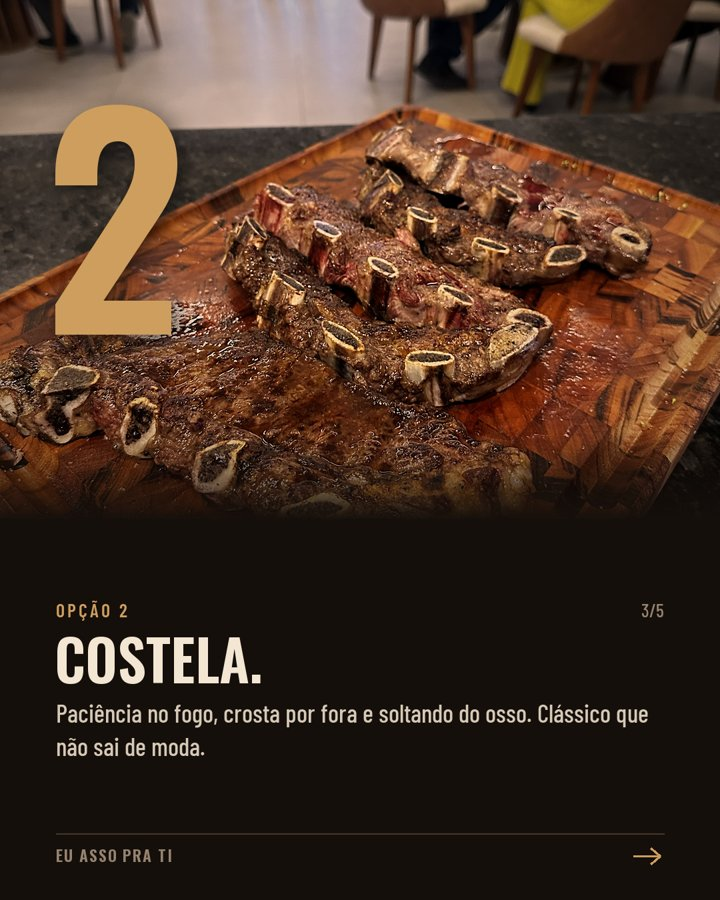
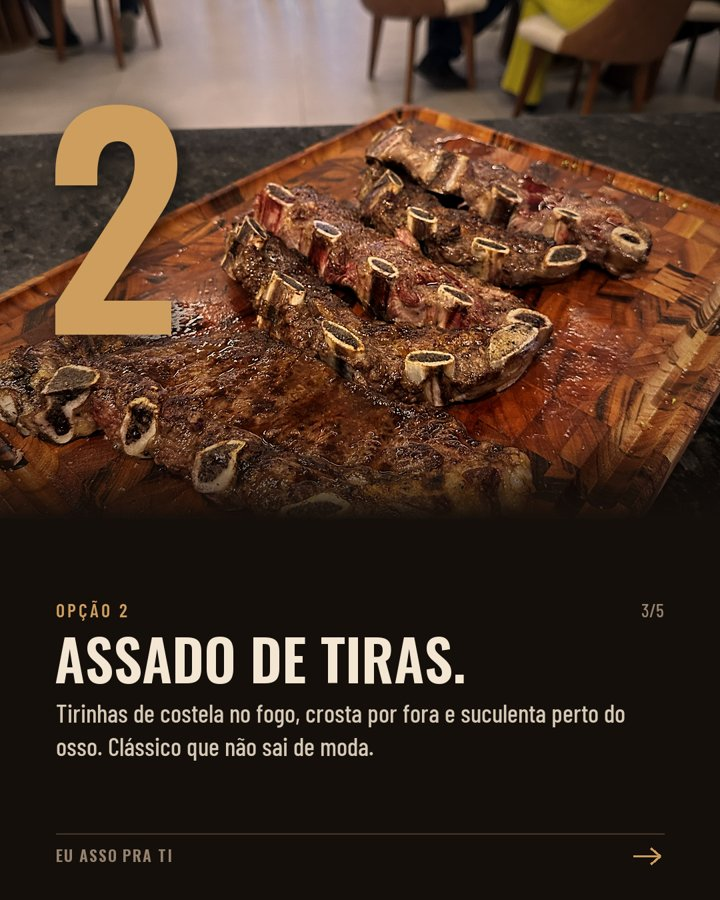
Post 15: entrecô, assado de tiras e matambrito à la pizza (pitacos do Diego)

Changed region(s): [[0.0611, 0.6844, 0.9167, 0.84]]

diff --git a/calendario/index.html b/calendario/index.html
@@ -11,7 +11,7 @@
 --display:"Oswald","Arial Narrow",sans-serif;--label:"Barlow Condensed","Arial Narrow",sans-serif;--text:"Barlow",system-ui,sans-serif;color-scheme:dark}
 *{box-sizing:border-box}
 body{margin:0;background:var(--bg);color:var(--body);font:400 1.0625rem/1.6 var(--text)}
-.hero{position:relative;min-height:min(78vh,620px);display:grid;align-items:end;background:#000 url(img/p14-01.jpg?v=1793402978) center 40%/cover}
+.hero{position:relative;min-height:min(78vh,620px);display:grid;align-items:end;background:#000 url(img/p14-01.jpg?v=1793404952) center 40%/cover}
 .hero::after{content:"";position:absolute;inset:0;background:linear-gradient(180deg,rgba(21,15,11,.2) 0%,rgba(21,15,11,.55) 45%,var(--bg) 100%)}
 .hero .in{position:relative;z-index:1;max-width:760px;margin:0 auto;width:100%;padding:0 20px 36px}
 h1,h2{font-family:var(--display);font-weight:600;text-transform:uppercase;color:var(--fg);line-height:1.05;margin:0;text-wrap:balance}
@@ -88,12 +88,12 @@ footer{font:500 .9rem var(--label);color:var(--muted);letter-spacing:.06em;borde
   <h2>Post 13: quem provou, recomenda</h2>
   <p>Prova social no dia em que os anúncios começam. Os comentários reais da galera, no visual do Instagram: a formatura, o aniversário de 1 ano do último sábado e quem provou o choripan de focaccia. Fecha contigo sorrindo e chamando pro WhatsApp.</p>
   <div class="car" aria-label="Imagens do post 13">
-    <img src="img/p13-01.jpg?v=1793402978" alt="Capa: Quem provou, recomenda" loading="lazy">
-    <img src="img/p13-02.jpg?v=1793402978" alt="Formatura" loading="lazy">
-    <img src="img/p13-03.jpg?v=1793402978" alt="Aniversário de 1 ano" loading="lazy">
-    <img src="img/p13-04.jpg?v=1793402978" alt="A queridinha" loading="lazy">
-    <img src="img/p13-05.jpg?v=1793402978" alt="Sem palavras" loading="lazy">
-    <img src="img/p13-06.jpg?v=1793402978" alt="A próxima pode ser a tua" loading="lazy">
+    <img src="img/p13-01.jpg?v=1793404952" alt="Capa: Quem provou, recomenda" loading="lazy">
+    <img src="img/p13-02.jpg?v=1793404952" alt="Formatura" loading="lazy">
+    <img src="img/p13-03.jpg?v=1793404952" alt="Aniversário de 1 ano" loading="lazy">
+    <img src="img/p13-04.jpg?v=1793404952" alt="A queridinha" loading="lazy">
+    <img src="img/p13-05.jpg?v=1793404952" alt="Sem palavras" loading="lazy">
+    <img src="img/p13-06.jpg?v=1793404952" alt="A próxima pode ser a tua" loading="lazy">
   </div>
   <p class="hint">Arrasta para o lado para ver as 6 imagens.</p>
   <details><summary>Ver a legenda</summary><div class="cap">Quem provou, recomenda 🔥
@@ -118,12 +118,12 @@ Tem festa vindo aí? Me chama no WhatsApp pelo link da bio ou no (51) 99565-7817
   <h2>Post 14: como é o dia da tua festa</h2>
   <p>O passo a passo do dia, com uma linha do tempo no topo de cada card: tu chega antes, os cortes separados e temperados, o fogo, a carne servida quentinha na mesa e o cliente só aproveitando. Responde a dúvida de quem nunca contratou: "vai dar trabalho pra mim?".</p>
   <div class="car" aria-label="Imagens do post 14">
-    <img src="img/p14-01.jpg?v=1793402978" alt="Capa: Como é o dia da tua festa" loading="lazy">
-    <img src="img/p14-02.jpg?v=1793402978" alt="Eu chego antes" loading="lazy">
-    <img src="img/p14-03.jpg?v=1793402978" alt="Separados e temperados na hora" loading="lazy">
-    <img src="img/p14-04.jpg?v=1793402978" alt="O fogo no ponto certo" loading="lazy">
-    <img src="img/p14-05.jpg?v=1793402978" alt="Servido quentinho pra galera" loading="lazy">
-    <img src="img/p14-06.jpg?v=1793402978" alt="Tu só aproveita a festa" loading="lazy">
+    <img src="img/p14-01.jpg?v=1793404952" alt="Capa: Como é o dia da tua festa" loading="lazy">
+    <img src="img/p14-02.jpg?v=1793404952" alt="Eu chego antes" loading="lazy">
+    <img src="img/p14-03.jpg?v=1793404952" alt="Separados e temperados na hora" loading="lazy">
+    <img src="img/p14-04.jpg?v=1793404952" alt="O fogo no ponto certo" loading="lazy">
+    <img src="img/p14-05.jpg?v=1793404952" alt="Servido quentinho pra galera" loading="lazy">
+    <img src="img/p14-06.jpg?v=1793404952" alt="Tu só aproveita a festa" loading="lazy">
   </div>
   <p class="hint">Arrasta para o lado para ver as 6 imagens.</p>
   <details><summary>Ver a legenda</summary><div class="cap">Como é o dia da tua festa com o Eu Asso pra Ti? 🔥
@@ -150,20 +150,20 @@ Me chama no WhatsApp pelo link da bio ou no (51) 99565-7817 e me conta como tu i
   <h2>Post 15: qual corte não pode faltar?</h2>
   <p>Enquete pra galera comentar, no mesmo formato do post do sal, que foi o que mais deu conversa até agora. Três opções com número gigante, e a galera vota comentando 1, 2 ou 3.</p>
   <div class="car" aria-label="Imagens do post 15">
-    <img src="img/p15-01.jpg?v=1793402978" alt="Capa: Qual corte não pode faltar?" loading="lazy">
-    <img src="img/p15-02.jpg?v=1793402978" alt="Ancho" loading="lazy">
-    <img src="img/p15-03.jpg?v=1793402978" alt="Costela" loading="lazy">
-    <img src="img/p15-04.jpg?v=1793402978" alt="Matambrito" loading="lazy">
-    <img src="img/p15-05.jpg?v=1793402978" alt="Comenta o número do teu time" loading="lazy">
+    <img src="img/p15-01.jpg?v=1793404952" alt="Capa: Qual corte não pode faltar?" loading="lazy">
+    <img src="img/p15-02.jpg?v=1793404952" alt="Entrecô" loading="lazy">
+    <img src="img/p15-03.jpg?v=1793404952" alt="Assado de tiras" loading="lazy">
+    <img src="img/p15-04.jpg?v=1793404952" alt="Matambrito à la pizza" loading="lazy">
+    <img src="img/p15-05.jpg?v=1793404952" alt="Comenta o número do teu time" loading="lazy">
   </div>
   <p class="hint">Arrasta para o lado para ver as 5 imagens.</p>
   <details><summary>Ver a legenda</summary><div class="cap">Qual corte não pode faltar na tua festa? 🔥
 
 Vota aqui nos comentários com o número do teu time:
 
-1⃣ Ancho, macio e bem marmorizado
-2⃣ Costela, soltando do osso
-3⃣ Matambrito, fininho e suculento, pra quem gosta de provar coisa nova
+1⃣ Entrecô, macio e bem marmorizado
+2⃣ Assado de tiras, suculento perto do osso
+3⃣ Matambrito à la pizza, fininho e suculento, pra quem gosta de provar coisa nova
 
 Ou tem outro corte que, pra ti, não pode faltar? Quero ver qual time ganha! 👇
 

diff --git a/semana/index.html b/semana/index.html
@@ -11,7 +11,7 @@
 --display:"Oswald","Arial Narrow",sans-serif;--label:"Barlow Condensed","Arial Narrow",sans-serif;--text:"Barlow",system-ui,sans-serif;color-scheme:dark}
 *{box-sizing:border-box}
 body{margin:0;background:var(--bg);color:var(--body);font:400 1.0625rem/1.6 var(--text)}
-.hero{position:relative;min-height:min(78vh,620px);display:grid;align-items:end;background:#000 url(img/p5-02.jpg?v=1793402978) center 40%/cover}
+.hero{position:relative;min-height:min(78vh,620px);display:grid;align-items:end;background:#000 url(img/p5-02.jpg?v=1793404952) center 40%/cover}
 .hero::after{content:"";position:absolute;inset:0;background:linear-gradient(180deg,rgba(21,15,11,.2) 0%,rgba(21,15,11,.55) 45%,var(--bg) 100%)}
 .hero .in{position:relative;z-index:1;max-width:760px;margin:0 auto;width:100%;padding:0 20px 36px}
 h1,h2{font-family:var(--display);font-weight:600;text-transform:uppercase;color:var(--fg);line-height:1.05;margin:0;text-wrap:balance}
@@ -81,13 +81,13 @@ footer{font:500 .9rem var(--label);color:var(--muted);letter-spacing:.06em;borde
   <h2>Post 5: gastronomia de fogo</h2>
   <p>Carrossel de 7 imagens: a carne de qualidade, cada uma no seu ponto, os legumes, o fatiado na hora, a sobremesa no fogo e o convite pra conversar.</p>
   <div class="car" aria-label="Imagens do post 5">
-    <img src="img/p5-01.jpg?v=1793402978" alt="Capa: Gastronomia de fogo" loading="lazy">
-    <img src="img/p5-02.jpg?v=1793402978" alt="Carne de qualidade" loading="lazy">
-    <img src="img/p5-03.jpg?v=1793402978" alt="Cada carne no seu ponto" loading="lazy">
-    <img src="img/p5-04.jpg?v=1793402978" alt="Os legumes também vão pro fogo" loading="lazy">
-    <img src="img/p5-05.jpg?v=1793402978" alt="Fatiado na hora" loading="lazy">
-    <img src="img/p5-06.jpg?v=1793402978" alt="E a sobremesa? No fogo, é claro" loading="lazy">
-    <img src="img/p5-07.jpg?v=1793402978" alt="Tem festa vindo aí?" loading="lazy">
+    <img src="img/p5-01.jpg?v=1793404952" alt="Capa: Gastronomia de fogo" loading="lazy">
+    <img src="img/p5-02.jpg?v=1793404952" alt="Carne de qualidade" loading="lazy">
+    <img src="img/p5-03.jpg?v=1793404952" alt="Cada carne no seu ponto" loading="lazy">
+    <img src="img/p5-04.jpg?v=1793404952" alt="Os legumes também vão pro fogo" loading="lazy">
+    <img src="img/p5-05.jpg?v=1793404952" alt="Fatiado na hora" loading="lazy">
+    <img src="img/p5-06.jpg?v=1793404952" alt="E a sobremesa? No fogo, é claro" loading="lazy">
+    <img src="img/p5-07.jpg?v=1793404952" alt="Tem festa vindo aí?" loading="lazy">
   </div>
   <p class="hint">Arrasta para o lado para ver as 7 imagens.</p>
   <details><summary>Ver a legenda</summary><div class="cap">Gastronomia de fogo 🔥 Eu cuido do fogo, tu aproveita a festa.
@@ -114,12 +114,12 @@ Me chama no WhatsApp pelo link da bio ou no (51) 99565-7817 e me conta como tu i
   <h2>Post 6: a tua festa, do teu jeito</h2>
   <p>Aqui não tem cardápio pronto: aniversário em casa, confraternização, casamento e formatura, cada um com o seu jeito. Fecha com "me conta a tua festa".</p>
   <div class="car" aria-label="Imagens do post 6">
-    <img src="img/p6-01.jpg?v=1793402978" alt="Capa: A tua festa, do teu jeito" loading="lazy">
-    <img src="img/p6-02.jpg?v=1793402978" alt="Pra família e os amigos" loading="lazy">
-    <img src="img/p6-03.jpg?v=1793402978" alt="Pra galera da empresa" loading="lazy">
-    <img src="img/p6-04.jpg?v=1793402978" alt="Pro dia que não volta" loading="lazy">
-    <img src="img/p6-05.jpg?v=1793402978" alt="Nada de cardápio pronto" loading="lazy">
-    <img src="img/p6-06.jpg?v=1793402978" alt="Me conta a tua festa" loading="lazy">
+    <img src="img/p6-01.jpg?v=1793404952" alt="Capa: A tua festa, do teu jeito" loading="lazy">
+    <img src="img/p6-02.jpg?v=1793404952" alt="Pra família e os amigos" loading="lazy">
+    <img src="img/p6-03.jpg?v=1793404952" alt="Pra galera da empresa" loading="lazy">
+    <img src="img/p6-04.jpg?v=1793404952" alt="Pro dia que não volta" loading="lazy">
+    <img src="img/p6-05.jpg?v=1793404952" alt="Nada de cardápio pronto" loading="lazy">
+    <img src="img/p6-06.jpg?v=1793404952" alt="Me conta a tua festa" loading="lazy">
   </div>
   <p class="hint">Arrasta para o lado para ver as 6 imagens.</p>
   <details><summary>Ver a legenda</summary><div class="cap">A tua festa, do teu jeito 🔥
@@ -144,7 +144,7 @@ Me chama no WhatsApp pelo link da bio ou no (51) 99565-7817 e me conta a tua fes
 <section>
   <div class="post-head"><p class="k" style="margin:0">Terça 13/10</p><span class="tag done">No ar</span></div>
   <h2>Post 4: o primeiro Reels</h2>
-  <video class="vid" src="video/p4-reels.mp4?v=1793402978" controls playsinline preload="metadata"></video>
+  <video class="vid" src="video/p4-reels.mp4?v=1793404952" controls playsinline preload="metadata"></video>
   <details><summary>Ver a legenda</summary><div class="cap">Quando tu chega, o fogo já tá pronto 🔥
 
 Eu chego bem antes pra preparar tudo: a carne de qualidade separada pra tua festa, o fogo no ponto certinho e tudo saindo da brasa direto pra tábua, servido quentinho pra galera.
